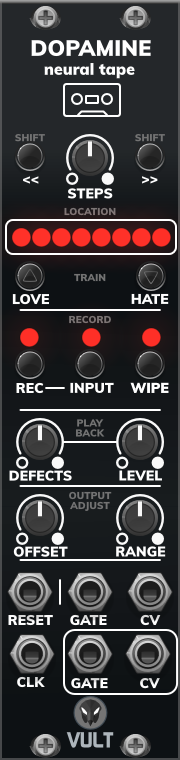
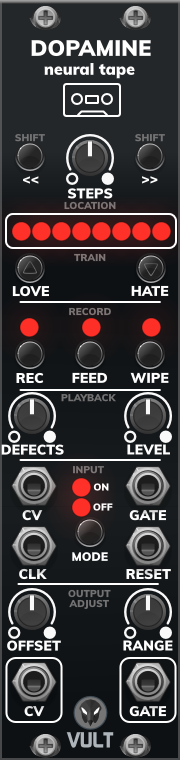
Updates the documentation of Mysteries

Changed region(s): [[0.0, 0.2421, 1.0, 0.9684]]

diff --git a/static/js/grid.js b/static/js/grid.js
@@ -28,6 +28,13 @@ var premium = [
     packages: ['Free']
   },
   {
+    slug: 'Dopamine',
+    name: 'Dopamine',
+    tags: ['Sequencer'],
+    description: 'Neural Tape',
+    packages: ['Mysteries']
+  },
+  {
     slug: 'Flame',
     name: 'Flame',
     tags: ['Distortion', 'Waveshaper', 'Effect'],
@@ -203,6 +210,13 @@ var premium = [
     packages: ['Premium']
   },
   {
+    slug: 'Quincunx',
+    name: 'Quincunx',
+    tags: ['Sequencer'],
+    description: 'Probability Machine',
+    packages: ['Mysteries']
+  },
+  {
     slug: 'BlackPanelSmall',
     name: 'Blank: 3 HP',
     tags: ['Blank'],
@@ -306,7 +320,7 @@ var tags = uniq(Array.prototype.concat.apply([], modules.map(x => x.tags)))
                    return 1;
                });
 
-var packages = ['All', 'Premium', 'Free', 'Compacts'];
+var packages = ['All', 'Premium', 'Free', 'Compacts', 'Mysteries'];
 
 var prefix = '';
 
@@ -487,4 +501,10 @@ function populateCompacts() {
   prefix = '../';
   populateGrid();
   packageFilter('Compacts');
+}
+
+function populateMysteries() {
+  prefix = '../';
+  populateGrid();
+  packageFilter('Mysteries');
 }

diff --git a/content/Dopamine.md b/content/Dopamine.md
@@ -16,12 +16,11 @@ Dopamine simulates this behavior by using different layers of virtual neurons. T
 
 ### Recording
 
-In order to record the input, you need to enable the INPUT monitoring by pressing the button.
-To record your own input, first, provide a clock signal into the CLK input and the data you want to record in the CV and GATE inputs. Select how long you want the sequence to be using the STEPS control. Pressing the REC button will arm the machine and the LED will turn light red. When the sequence ends, the recording will start and the LED will be full red. Once the sequence ends, the recording will stop. You can monitor what you are recording by checking the outputs, these will display exactly what's being recorded.
+To record your own input, first, provide a clock signal into the CLK input and the data you want to record in the CV and GATE inputs. Select how long you want the sequence to be using the STEPS control. Pressing the REC button will arm the machine and the LED will turn light red. When the sequence ends, the recording will start and the LED will be full red. Once the sequence ends, the recording will stop.
 
-By default, the input and output of Dopamine are merged and recorded. If you don't want to record the output, decrease the DEFECTS control.
+By default, Dopamine records only the input but you will be listening to the output as well (with defects included). If you want to record the output, you need to enable the feedback by pressing the FEED button.
 
-We can record multiple times information into the neurons. In this case, the memories are gonna be merged and the neurons will come up with variations of the recordings during playback.
+You can record multiple times information into the neurons. In this case, the memories are gonna be merged and the neurons will come up with variations of the recordings during playback.
 
 We can clear the data by pressing the WIPE button. Pressing it will delete layer by layer of the neurons and the LED will blink every time there's deletion. If there are no more layers to delete, the LED will not blink.
 
@@ -33,15 +32,21 @@ The sequence can be reset by providing a pulse in the RESET input. If you don't 
 
 The current location is displayed using the eight LEDs. The location is displayed proportionally to the number of steps. For example, if we use 64 steps, the first 8 will be displayed by the first LED.
 
+You can provide an input at the same time you are playing back. Every time there's an input GATE you will be able to listen to the data you are providing. If you want to ignore your input, you can turn it off by pressing the MODE button.
+
 ### Training the Neurons
 
-We can influence the memories of our neurons by providing feedback with the LOVE or HATE buttons. These buttons rate the previously played sequence. If we like the previous sequence, pressing the LOVE button will tell the neurons that we liked the sequence we heard and it is gonna learn to provide sequences alike. The HATE button does the opposite. It will train the neurons to avoid the previous played sequence.
+We can influence the memories of our neurons by providing feedback with the LOVE or HATE buttons. These buttons rate the **previously played sequence**. If we like the previous sequence, pressing the LOVE button will tell the neurons that we liked the sequence we heard and it is gonna learn to provide sequences alike. The HATE button does the opposite. It will train the neurons to avoid the previous played sequence.
 
 You have to consider that the output is at every moment affected by the value of the DEFECTS knob.
 
 ### Adjusting the Output Signal
 
 The OFFSET and RANGE control can be used to modify the output signal. As their names imply, OFFSET will introduce a constant voltage level to the output, while RANGE will change the values by multiplying them by a constant.
+
+<center><img src="../images/Dopamine-Schema.png"> </center>
+<center>Dopamine block diagram</center>
+
 
 ## Control Description
 
@@ -59,7 +64,7 @@ The OFFSET and RANGE control can be used to modify the output signal. As their n
 ### Record
 
 - **Rec**: arms the recording to start capturing data in the start of the next sequence.
-- **Input**: if enabled, we can monitor and record the input CV and Gate. If disabled, Dopamine will record only its own output.
+- **Feed**: if enabled, Dopamine will record it's own output merged with the provided input.
 - **Wipe**: erases (layer by layer) the information of the neurons.
 
 ### Playback
@@ -74,9 +79,9 @@ The OFFSET and RANGE control can be used to modify the output signal. As their n
 
 ### Inputs and Outputs
 
+- **Mode**: turns On or Off the input.
 - **Reset**: returns the read/record head to the initial step.
 - **Clk**: Moves the read/record head one step forward.
 - **Gate and CV (Inputs)**: main inputs used to record information into the neurons.
 - **Gate and CV (Outputs)**: main outputs of the machine.
-
 

diff --git a/content/Quincunx.md b/content/Quincunx.md
@@ -15,9 +15,9 @@ Quincunx is based on the machine with the same name, also known as "bean machine
 
 ## Basic Use
 
-Connect a clock signal to the input CLK. Every time a pulse is received a bean will be dropped and it will land in one of the seven slots of the machine. Due to the probabilistic nature of the machine, the beans will have a larger probability of landing in the center slot. We can see in which slot it land in the left column of LEDs. The probability rules can be altered by the TABU parameter which is inspired by the Tabu Search optimization algorithm. Increasing the TABU number will forbid a bean of falling in the same slot for a certain number of steps. This forces the machine to explore the side slots. Setting the TABU to maximum will make it produce a more repeated sequence of throws.
+Connect a clock signal to the input CLK. Every time a pulse is received a bean will be dropped and it will land in one of the seven slots of the machine. Due to the probabilistic nature of the machine, the beans will have a larger probability of landing in the center slots. We can see in the left column of LEDs the slot in which a bean has landed. The probability rules can be altered by the TABU parameter which is inspired by the Tabu Search optimization algorithm. Increasing the TABU number will forbid a bean of falling in the same slot for a certain number of steps. This forces the machine to explore the side slots. Setting the TABU to maximum will make it produce a more repeated sequence of throws.
 
-The slots in which the beans fall are converted to voltages and pulses. The conversion depends on the number of ACTIVE steps. We can see how many bits are active in the right colum of LEDs. When generating voltages, the more active steps, the more bits are used to generate an analog signal. The two outputs will generate a number using the two possible orderings of the bits; from left to right and right to left. The position of the bits can be altered with the SHIFT control which will displace the bits by the number of given positions. The pulses are generated by triggering every output that has an active bit.
+The slots in which the beans fall are converted to voltages and pulses. The conversion depends on the number of ACTIVE steps. We can see how many bits are active in the right colum of LEDs. When generating voltages, the more active steps, the more bits are used to generate an analog signal. The two outputs will generate a number using the two possible orderings of the bits; from left to right and right to left. The position of the bits can be altered with the SHIFT control which will displace the bits by given number of positions. The pulses are generated by triggering every output that has an active bit when a clock is received.
 
 Because of the machine having seven slots, it tends to produce odd number sequences. The SKIP switch helps to make the sequences odd. When active, every eight clocks one will be skipped.
 
@@ -30,5 +30,5 @@ Because of the machine having seven slots, it tends to produce odd number sequen
 - **Shift**: shifts by the given number positions the bits used to generate analog signals.
 - **Active**: defines how many of the beans thrown are used as bits to generate analog signals.
 - **Skip**: when On, it will skip one of every eight pulses making the generated signals odd.
-- **Pulse Outputs**: generate a pulse every time a bean falls and the slot is active (as displayed in the right LEDs).
+- **Pulse Outputs**: generate pulses every time a clock is received and the slot is active. The pulses will have the same pulse width as the input clock.
 - **Out1 and Out2**: analog outputs generated by using the seven active slots as bits. Out1 uses the bits in left-to-right and Out2 uses them on right-to-left.

diff --git a/content/Mysteries.md b/content/Mysteries.md
@@ -1,0 +1,21 @@
++++
+title = "Vult Mysteries"
+date = "2018-08-12T09:04:47+02:00"
+layout = "download"
++++
+
+Vult Mysteries is a collection modules aimed to explore crazy ideas and turn them into usable modules (if possible).
+
+
+<script src="../js/grid.js"></script>
+<script type="text/javascript">
+   window.onload = populateMysteries;
+</script>
+<div>
+            <div id="module-buttons">
+            </div>
+            <div id="module-tags">
+            </div>
+            <div id="modules">
+            </div>
+</div>
